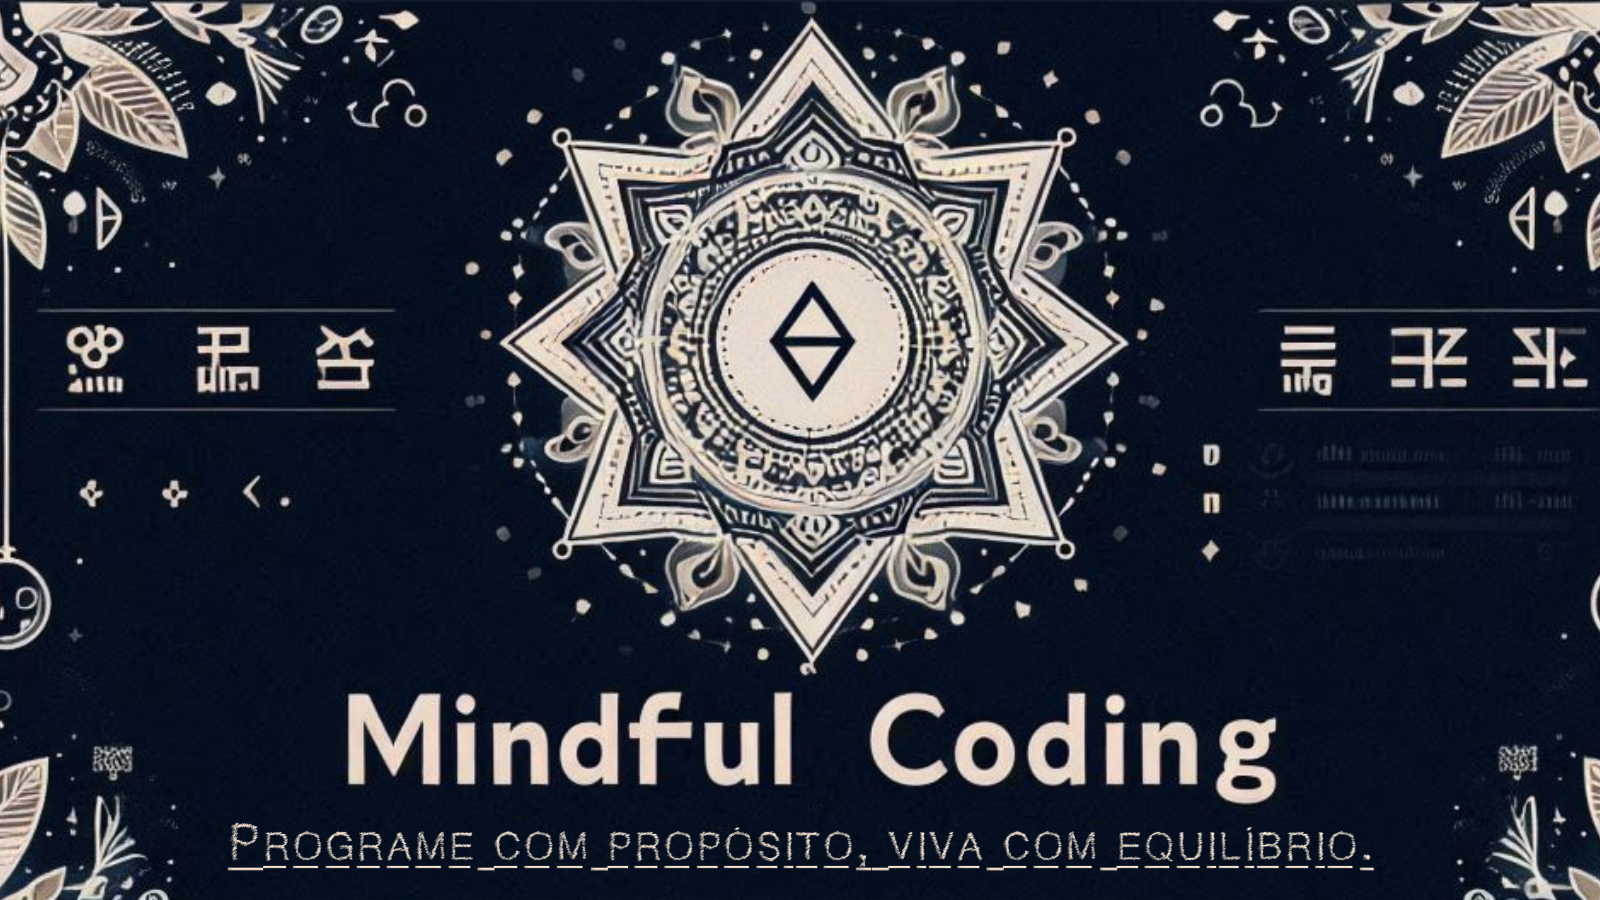
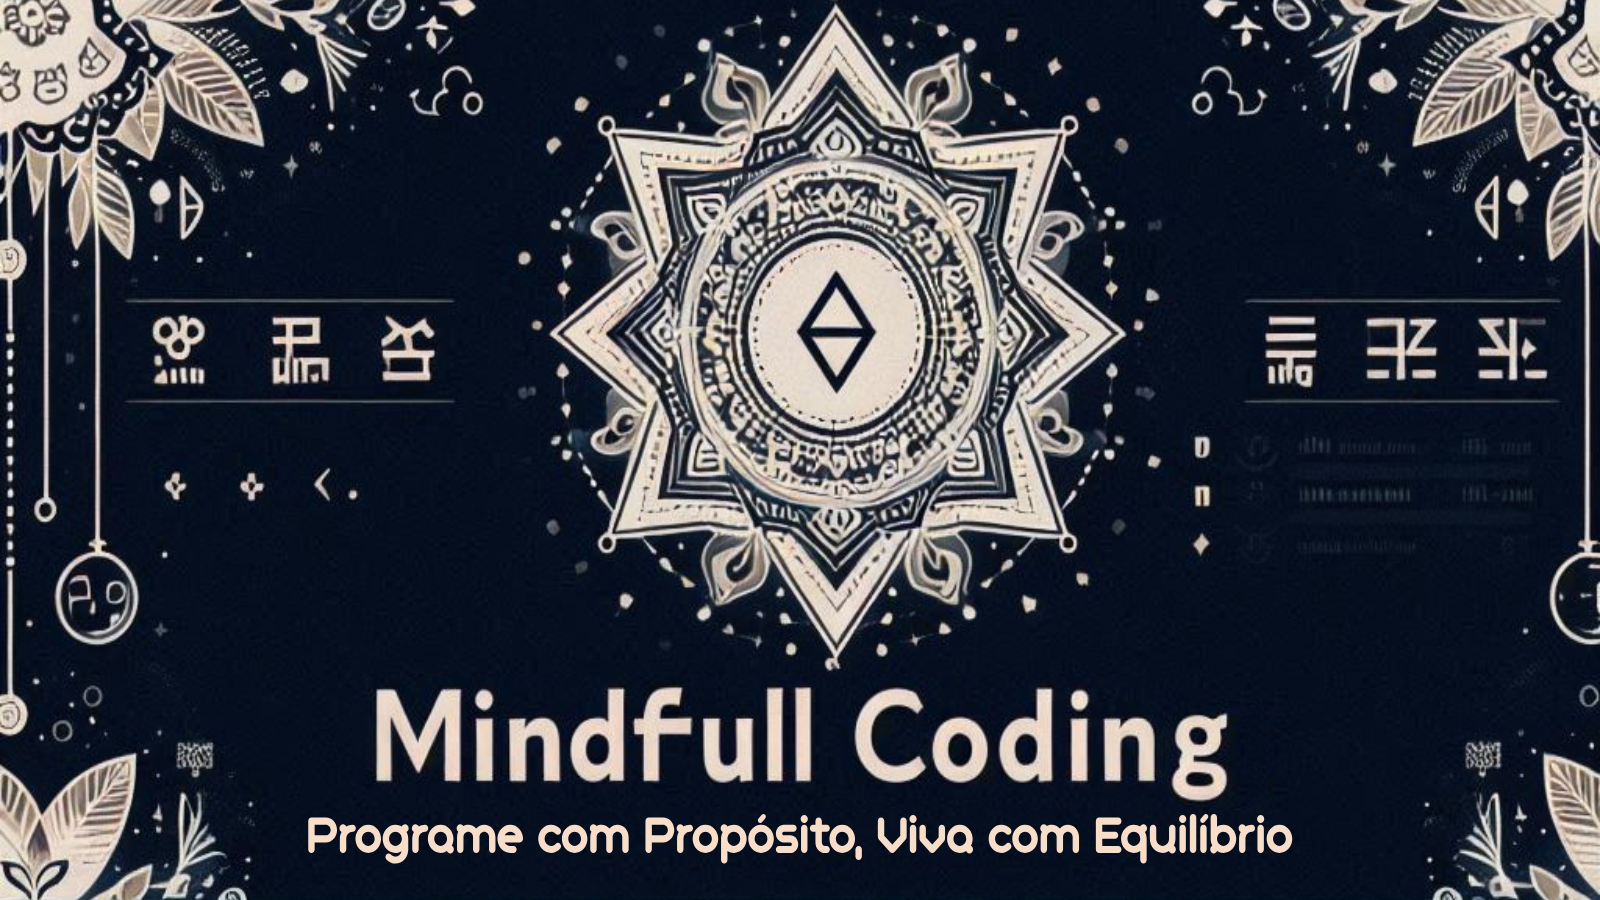
update imgs add dark mode toggle

diff --git a/index.html b/index.html
@@ -11,7 +11,7 @@
 		<link rel="stylesheet" href="css/bootstrap.css" />
 		<link rel="stylesheet" href="css/main.css" />
 		<script src="/js/bootstrap.bundle.js"></script>
-		<script src="./js/darkmode.js"></script>
+
 		<title>Mindful Coding</title>
 	</head>
 	<body>
@@ -20,7 +20,11 @@
 			<!-- Row 1 que vai abrigar col 1, col 2 e seus aninhamentos quando . > md-->
 			<div class="row me-0">
 				<!-- Col 3/12 na row 1 que vai abrigar a sidebar de menu quando . > md-->
-				<div class="col-md-2 p-0 p-md-3 js-image-lightdark"	data-filename="texture-1.png" id="col-1">
+				<div
+					class="col-md-2 p-0 p-md-3 js-image-lightdark"
+					data-filename="texture-1.png"
+					id="col-1"
+				>
 					<header class="">
 						<nav
 							class="navbar flex-column flex-md-column mb-md-auto"
@@ -59,33 +63,43 @@
 										>Contato</a
 									>
 								</li>
+								<li class="nav-item nav-link">
+									<div class="dark-mode-toggle">
+										<input type="checkbox" id="dark-mode-checkbox" class="dark-mode-checkbox">
+										<label for="dark-mode-checkbox" class="dark-mode-label">
+										  <i class="bi bi-moon-stars-fill"></i>
+										  <i class="bi bi-brightness-high-fill"></i>
+										</label>
+									  </div>
+								</li>
 							</ul>
 						</nav>
+						
 					</header>
 				</div>
 				<!-- Col 9/12 na row 1 que vai abrigar o conteúdo  -->
-					<div
-					class="col-md-10 p-1 js-image-lightdark"
+				<div
+					class="col-md-10 p-0 g-md-2 js-image-lightdark mt-0"
 					data-filename="texture-2.png"
 					id="col-2"
 				>
 					<img
 						src="#"
 						data-filename="hero-banner-1600x900.png"
-						alt=""
+						alt="Um grande banner com formas abstratas da cultura indiana, logo do Mindful Coding e texto Mindful Coding escrito."
 						class="img-fluid js-image-lightdark"
 					/>
 
-					<main class="container-xl">
+					<main class="container-xl g-0">
 						<!-- Row 2 na col 9/12 que abriga o conteúdo quando . > md -->
 						<div class="row mt-2">
-							<div class="container-md text-wrap text-center">
-								<h4 class="lh-lg">
+							<div class="container-lg text-wrap text-center">
+								<h4 class="lh-lg px-3">
 									Inspire-se a
 									<mark>aprender e crescer</mark> enquanto
 									mantém sua <mark> mente saudável </mark>
 								</h4>
-								<p class="lh-lg">
+								<p class="lh-lg px-3">
 									<mark>Superar desafios</mark> é possível
 									quando equilibramos estudo e
 									<mark>bem-estar</mark>. Explore estratégias
@@ -95,16 +109,15 @@
 							</div>
 						</div>
 						<!-- Row 3 na Col 9/12 que abriga videos e artigos quando . > md -->
-						<div class="row">
+						<div class="row g-0 mt-4">
 							<!-- col 6/12 na Row 3 Col 9/12 que abriga o carousel -->
 							<div class="col-lg-6 p-0 p-md-3">
-								<!-- <h1>Carousel</h1> -->
 								<div
-									class="container-md d-flex flex-row justify-content-between"
+									class="d-flex flex-row justify-content-between mx-4 mx-md-0"
 								>
 									<p class="align-self-end">
 										<a
-										class="js-hover-lightdark"
+											class="js-hover-lightdark"
 											href="galeria.html"
 											>+ videos</a
 										>
@@ -116,10 +129,11 @@
 								</div>
 
 								<!-- Display: None habilitado no carousel em ambiente de produção para evitar reloads o tempo todo -->
+								<!-- <h1>Carousel</h1> -->
 								<div
 									id="inspirational-carousel-video"
 									class="carousel slide"
-									data-bs-ride="carousel"
+									data-bs-touch="true"
 								>
 									<div class="carousel-indicators">
 										<button
@@ -138,10 +152,7 @@
 										></button>
 									</div>
 									<div class="carousel-inner">
-										<div
-											class="carousel-item active"
-											data-bs-interval="20000"
-										>
+										<div class="carousel-item active">
 											<div>
 												<iframe
 													class="d-block w-100"
@@ -150,16 +161,13 @@
 													src="https://www.youtube.com/embed/J-swZaKN2Ic?si=wTiTRAUeCMXdbZ1k"
 													title="YouTube video player"
 													frameborder="0"
-													allow="accelerometer; autoplay; clipboard-write; encrypted-media; gyroscope; picture-in-picture; web-share"
+													allow="accelerometer; autoplay; clipboard-write; encrypted-media; gyroscope; web-share"
 													referrerpolicy="strict-origin-when-cross-origin"
 													allowfullscreen
 												></iframe>
 											</div>
 										</div>
-										<div
-											class="carousel-item object-fit-cover ratio ratio-16x9"
-											data-bs-interval="20000"
-										>
+										<div class="carousel-item">
 											<iframe
 												class="d-block w-100"
 												width="560"
@@ -167,7 +175,7 @@
 												src="https://www.youtube.com/embed/5MgBikgcWnY?si=8ZqjznVdF_7S7Ui6"
 												title="YouTube video player"
 												frameborder="0"
-												allow="accelerometer; autoplay; clipboard-write; encrypted-media; gyroscope; picture-in-picture; web-share"
+												allow="accelerometer; autoplay; clipboard-write; encrypted-media; gyroscope; web-share"
 												referrerpolicy="strict-origin-when-cross-origin"
 												allowfullscreen
 											></iframe>
@@ -201,7 +209,9 @@
 											>Próximo</span
 										>
 									</button>
-									<p class="fs-6">
+									<p
+										class="fs-6 mx-3 mx-md-0 text-center text-md-start mt-2"
+									>
 										Lembre-se de ativar as legendas quando
 										necessário
 									</p>
@@ -211,9 +221,9 @@
 							<!-- Col 6/12 na Rw 3 col 9/12 que abriga os artigos -->
 							<div class="col-lg-6 p-0 p-md-3">
 								<div
-									class="container-md d-flex flex-row justify-content-between"
+									class="d-flex flex-row justify-content-between mx-4 mx-md-0"
 								>
-									<div class="container-md text-start">
+									<div class="text-start mx-3 mx-md-0">
 										<h4>Artigos</h4>
 										<p>Para te ajudar a seguir em frente</p>
 									</div>
@@ -222,7 +232,7 @@
 											class="text-end d-none d-md-inline-flex text-nowrap"
 										>
 											<a
-											class="js-hover-lightdark"
+												class="js-hover-lightdark"
 												href="galeria.html"
 												>+ Artigos</a
 											>
@@ -230,9 +240,12 @@
 									</div>
 								</div>
 								<div
-									class="container-lg d-flex flex-row justify-content-around p-0 g-5"
+									class="container-lg d-flex flex-row justify-content-evenly p-0 g-5"
 								>
-									<div class="card col-5" data-bs-theme="dark">
+									<div
+										class="card col-5"
+										data-bs-theme="dark"
+									>
 										<img
 											src="./img/mindfulness.jpg"
 											class="card-img-top"
@@ -254,7 +267,10 @@
 											>
 										</div>
 									</div>
-									<div class="card col-5" data-bs-theme="dark">
+									<div
+										class="card col-5"
+										data-bs-theme="dark"
+									>
 										<img
 											src="./img/toomuchinformation.jpg"
 											class="card-img-top"
@@ -278,14 +294,18 @@
 									</div>
 								</div>
 
-								<p class="text-end d-md-none">
-									<a href="galeria.html" class="js-hover-lightdark">+ Artigos</a>
+								<p class="text-end d-md-none mx-3 mx-md-0 mt-2">
+									<a
+										href="galeria.html"
+										class="js-hover-lightdark"
+										>+ Artigos</a
+									>
 								</p>
 							</div>
 						</div>
 						<!-- Row na col 9/12 com farewell -->
-						<div class="row">
-							<h3 class="text-center">
+						<div class="row mb-3 mt-4">
+							<h3 class="text-center px-5">
 								Estudar é um desafio, mas cada esforço nos leva
 								mais perto dos nossos sonhos.
 							</h3>
@@ -304,24 +324,6 @@
 				</footer>
 			</div>
 		</div>
-		<script>
-			updateImagePaths()
-			updateColorSchemeStyle()
-		</script>
+		<script src="./js/darkmode.js"></script>
 	</body>
 </html>
-<!--
-	todo fix carousel layout
-	todo carousel
-	todo stop auto play
-	todo fix controls on mobile.
-	todo fix gallery dark mode
- 
-
-	todo acessibilidade
-	todo alt imgs
-	todo contrast (light OK / Dark [])
-	todo aria info
-	todo comentários
-	todo hierarquização
-	-->

diff --git a/css/main.css b/css/main.css
@@ -131,10 +131,18 @@ mark {
 	animation-direction: alternate;
 }
 
-/* Estilos de carrossel e cartões */
+/* Estilos de carrossel*/
 #inspirational-video-carousel > .carousel-item {
 	height: 200px;
 }
+
+.carousel-control-prev,
+.carousel-control-next {
+	top: 130px;
+	bottom: 130px;
+}
+
+/* estilo de cartões */
 
 .background-color--accent {
 	background-color: var(--accent-color);
@@ -211,10 +219,6 @@ footer {
 	bottom: 0;
 }
 
-.text-overflow-ellipsis {
-	text-overflow: ellipsis;
-}
-
 /* Textura na área de menu */
 #col-1 {
 	background-image: url(../img/texture-1.png);
@@ -264,4 +268,50 @@ footer {
 	.container-xl {
 		margin-left: 0px;
 	}
+}
+
+/* Dark Mode Toggle */
+
+.dark-mode-checkbox {
+	display: none;
+}
+
+.dark-mode-label {
+	display: inline-flex;
+	align-items: center;
+	justify-content: center;
+	background-color: var(--background-accent-color);
+	color: var(--text-color-contrast);
+	width: 50px;
+	height: 25px;
+	border-radius: 25px;
+	position: relative;
+	cursor: pointer;
+	transition: background-color 0.3s ease;
+}
+
+.dark-mode-label .bi {
+	font-size: 16px;
+	position: absolute;
+	transition: transform 0.3s ease;
+}
+
+.dark-mode-label .bi-moon-stars-fill {
+	transform: translate(-9px, 1px);
+}
+
+.dark-mode-label .bi-brightness-high-fill {
+	transform: translate(10px, 1px);
+}
+
+.dark-mode-checkbox:checked + .dark-mode-label {
+	background-color: var(--accent-color);
+}
+
+.dark-mode-checkbox:checked + .dark-mode-label .bi-moon-stars-fill {
+	transform: translate(10px, 1px);
+}
+
+.dark-mode-checkbox:checked + .dark-mode-label .bi-brightness-high-fill {
+	transform: translate(-9px, 1px);
 }
